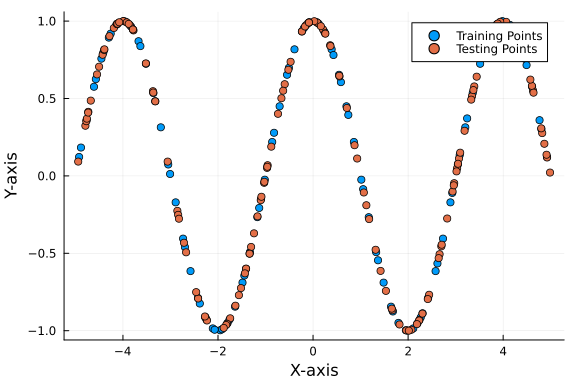
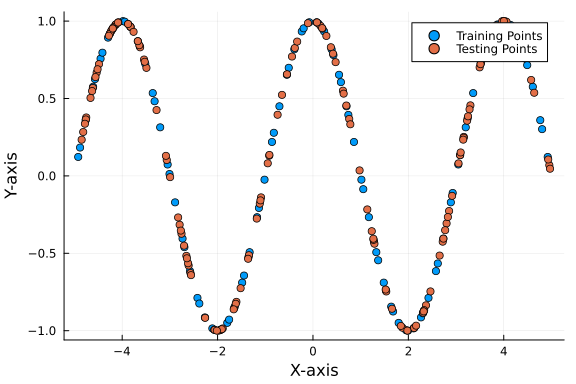
Automatic build\nPublished by build of: https://github.com/SciML/SciMLBenchmarks.jl/commit/709b4df0aba08828afc85fda4b43a7cb25f50b72

diff --git a/markdown/Surrogates/tensor_product.md b/markdown/Surrogates/tensor_product.md
@@ -73,26 +73,26 @@ y_test = tensor_product_function.(x_test)  # Calculate corresponding true functi
 
 ```
 150-element Vector{Float64}:
-  0.6423429368716482
- -0.7248728290811458
-  0.782449624406479
-  0.768980422203787
- -0.8680956922945071
-  0.8135459525545304
-  0.9028175030672306
-  0.9469435427810834
- -0.10103665435398895
- -0.45897561664645603
+  0.3565182982404131
+  0.9708790996071355
+  0.0812607014550339
+  0.6197415513907083
+ -0.37394087710760543
+  0.9039908194391797
+  0.9921678469023204
+  0.9719001637726322
+ -0.7463149330380198
+ -0.3573302717082449
   ⋮
-  0.68561921982168
- -0.8385787222394305
-  0.9832473659148661
-  0.9907772321553996
-  0.1366326552059298
- -0.4446422940052878
-  0.058946729414397506
-  0.9924243467700988
-  0.09227883249780619
+  0.5481757335585629
+  0.954562124838971
+ -0.734241988661422
+  0.7840252131215775
+  0.905510004894119
+  0.33334082448336483
+ -0.8620914548986832
+  0.10584589297535792
+ -0.9676763300586276
 ```
 
 
@@ -146,26 +146,26 @@ loba_test_pred = loba_surrogate.(x_test)
 
 ```
 150-element Vector{Float64}:
-  0.6423439771186126
- -0.7248683835440488
-  0.7824477925762459
-  0.7689820594874365
- -0.8681000132553149
-  0.8135517206821925
-  0.9028151639095192
-  0.946926956458695
- -0.1010349708655274
- -0.45897986158808735
+  0.3565145349612422
+  0.9708765587458921
+  0.08129282265106053
+  0.6197579173084132
+ -0.3739718079631622
+  0.904034612396672
+  0.9921494339522985
+  0.9718976140977688
+ -0.7463175376031198
+ -0.3573546620598416
   ⋮
-  0.6856217452466795
- -0.8385799343033842
-  0.983245745760918
-  0.9907771841711847
-  0.13653315618871242
- -0.44465609939785644
-  0.058973681013981594
-  0.9924057262133301
-  0.09228677639294092
+  0.5481774589097022
+  0.9545423399807251
+ -0.7341998277231966
+  0.7840251640998602
+  0.9055075148782068
+  0.3333284655340415
+ -0.8620852354244875
+  0.10600604586268915
+ -0.9676409890065695
 ```
 
 
@@ -205,7 +205,7 @@ mse_loba_test = calculate_mse(loba_test_pred, y_test)
 ```
 
 ```
-2.566964355434295e-8
+1.3923901914388224e-8
 ```
 
 
@@ -226,10 +226,10 @@ pretty_table(hcat(getindex.(mses, 3), getindex.(mses, 2), getindex.(mses, 1)), h
 ┌───────────────┬──────────────┬────────────┐
 │         Model │ Training MSE │   Test MSE │
 ├───────────────┼──────────────┼────────────┤
-│   Lobachevsky │   3.7375e-19 │ 2.56696e-8 │
-│       Kriging │   1.16824e-5 │  1.4371e-5 │
-│  Radial Basis │  1.74579e-30 │  8.3866e-5 │
-│ Random Forest │   0.00176894 │ 0.00739329 │
+│   Lobachevsky │   3.7375e-19 │ 1.39239e-8 │
+│       Kriging │   1.16824e-5 │ 1.43129e-5 │
+│  Radial Basis │  1.74579e-30 │ 6.83775e-5 │
+│ Random Forest │   0.00176894 │ 0.00851537 │
 └───────────────┴──────────────┴────────────┘
 ```
 
@@ -263,7 +263,7 @@ time_loba = @belapsed loba_surrogate.(x_test)
 ```
 
 ```
-0.001351646
+0.001315918
 ```
 
 
@@ -282,11 +282,11 @@ pretty_table(hcat(first.(sorted_times), last.(sorted_times)), header=["Model", "
 ┌───────────────────┬─────────────┐
 │             Model │     Time(s) │
 ├───────────────────┼─────────────┤
-│ Original Function │    1.508e-6 │
-│           Kriging │ 0.000338447 │
-│       Lobachevsky │  0.00135165 │
-│      Radial Basis │  0.00188795 │
-│     Random Forest │  0.00409138 │
+│ Original Function │    1.543e-6 │
+│           Kriging │ 0.000338556 │
+│       Lobachevsky │  0.00131592 │
+│      Radial Basis │  0.00189598 │
+│     Random Forest │  0.00412264 │
 └───────────────────┴─────────────┘
 ```
 
